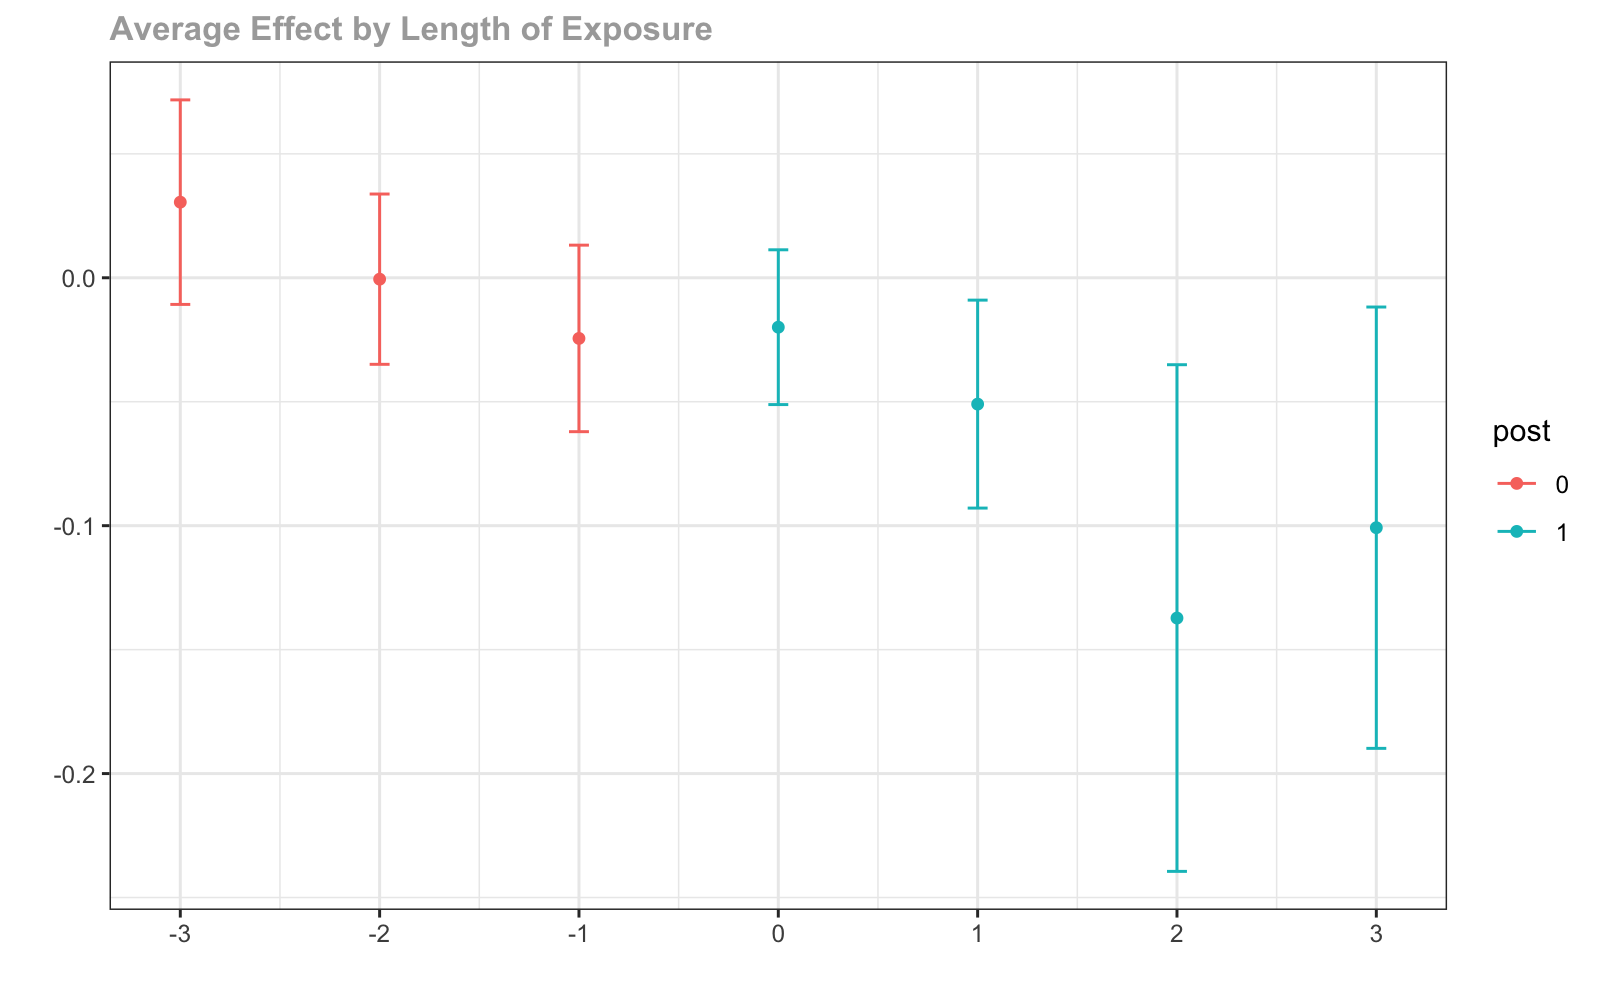
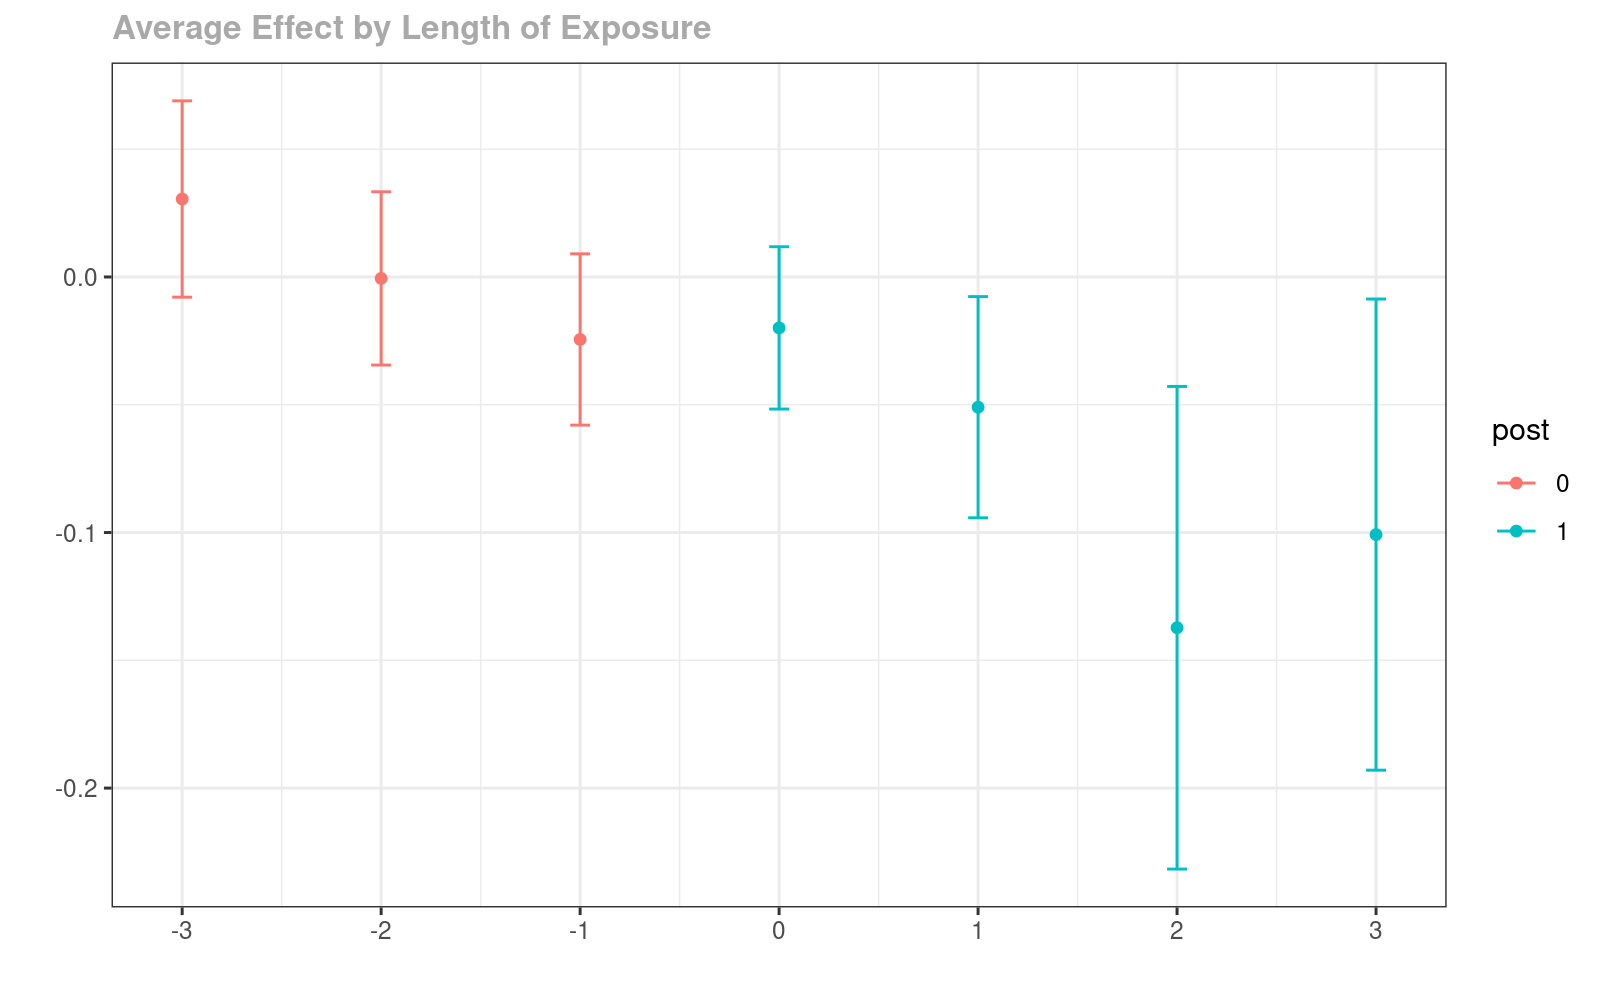
fixed urls

diff --git a/docs/index.html b/docs/index.html
@@ -104,7 +104,7 @@
 </ul>
 <p><strong>Higher level discussions of issues are available in</strong></p>
 <ul>
-<li><a href="articles/multi-period-did.html">Our approach to DiD with multiple time periods</a></li>
+<li><a href="https://bcallaway11.github.io/did/articles/multi-period-did.html">Our approach to DiD with multiple time periods</a></li>
 </ul>
 </div>
 <div id="installation" class="section level2">
@@ -123,7 +123,7 @@
 <a href="#a-short-example" class="anchor"></a>A short example</h2>
 <p>The following is a simplified example of the effect of states increasing their minimum wages on county-level teen employment rates which comes from <a href="https://arxiv.org/abs/1803.09015">Callaway and Sant’Anna (2020)</a>.</p>
 <ul>
-<li><a href="articles/did-basics.html">More detailed examples are also available</a></li>
+<li><a href="https://bcallaway11.github.io/did/articles/did-basics.html">More detailed examples are also available</a></li>
 </ul>
 <p>A subset of the data is available in the package and can be loaded by</p>
 <div class="sourceCode" id="cb3"><pre class="downlit sourceCode r">
@@ -158,22 +158,22 @@
 <span class="co">#&gt; </span>
 <span class="co">#&gt; Group-Time Average Treatment Effects:</span>
 <span class="co">#&gt;  Group Time ATT(g,t) Std. Error [95% Simult.  Conf. Band]  </span>
-<span class="co">#&gt;   2004 2004  -0.0105     0.0248       -0.0744      0.0534  </span>
-<span class="co">#&gt;   2004 2005  -0.0704     0.0338       -0.1573      0.0165  </span>
-<span class="co">#&gt;   2004 2006  -0.1373     0.0408       -0.2423     -0.0322 *</span>
-<span class="co">#&gt;   2004 2007  -0.1008     0.0359       -0.1933     -0.0083 *</span>
-<span class="co">#&gt;   2006 2004   0.0065     0.0246       -0.0568      0.0698  </span>
-<span class="co">#&gt;   2006 2005  -0.0028     0.0206       -0.0558      0.0503  </span>
-<span class="co">#&gt;   2006 2006  -0.0046     0.0183       -0.0518      0.0426  </span>
-<span class="co">#&gt;   2006 2007  -0.0412     0.0212       -0.0958      0.0134  </span>
-<span class="co">#&gt;   2007 2004   0.0305     0.0149       -0.0077      0.0687  </span>
-<span class="co">#&gt;   2007 2005  -0.0027     0.0176       -0.0481      0.0426  </span>
-<span class="co">#&gt;   2007 2006  -0.0311     0.0179       -0.0772      0.0150  </span>
-<span class="co">#&gt;   2007 2007  -0.0261     0.0170       -0.0698      0.0177  </span>
+<span class="co">#&gt;   2004 2004  -0.0105     0.0244       -0.0742      0.0532  </span>
+<span class="co">#&gt;   2004 2005  -0.0704     0.0338       -0.1586      0.0177  </span>
+<span class="co">#&gt;   2004 2006  -0.1373     0.0384       -0.2376     -0.0370 *</span>
+<span class="co">#&gt;   2004 2007  -0.1008     0.0355       -0.1934     -0.0083 *</span>
+<span class="co">#&gt;   2006 2004   0.0065     0.0252       -0.0593      0.0724  </span>
+<span class="co">#&gt;   2006 2005  -0.0028     0.0193       -0.0531      0.0476  </span>
+<span class="co">#&gt;   2006 2006  -0.0046     0.0179       -0.0512      0.0420  </span>
+<span class="co">#&gt;   2006 2007  -0.0412     0.0211       -0.0964      0.0139  </span>
+<span class="co">#&gt;   2007 2004   0.0305     0.0154       -0.0097      0.0707  </span>
+<span class="co">#&gt;   2007 2005  -0.0027     0.0163       -0.0453      0.0399  </span>
+<span class="co">#&gt;   2007 2006  -0.0311     0.0200       -0.0833      0.0211  </span>
+<span class="co">#&gt;   2007 2007  -0.0261     0.0174       -0.0715      0.0194  </span>
 <span class="co">#&gt; ---</span>
 <span class="co">#&gt; Signif. codes: `*' confidence band does not cover 0</span>
 <span class="co">#&gt; </span>
-<span class="co">#&gt; P-value for pre-test of parallel trends assumption:  0.19578</span>
+<span class="co">#&gt; P-value for pre-test of parallel trends assumption:  0.16812</span>
 <span class="co">#&gt; Control Group:  Never Treated,  Anticipation Periods:  0</span>
 <span class="co">#&gt; Estimation Method:  Outcome Regression</span></code></pre></div>
 <p>This provides estimates of group-time average treatment effects for all groups in all time periods. Group-time average treatment effects are identified when <code>t &gt;= g</code> (these are post-treatment time periods for each group), but <strong>summary</strong> reports them even in periods when <code>t &lt; g</code> – these can be used to pre-test for the parallel trends assumption. The <code>P-value for pre-test of parallel trends assumption</code> is for a Wald pre-test of the parallel trends assumption. Here the parallel trends assumption would not be rejected at conventional significance levels.</p>
@@ -199,18 +199,18 @@
 <span class="co">#&gt; </span>
 <span class="co">#&gt; Overall ATT:  </span>
 <span class="co">#&gt;      ATT Std. Error     [95%  Conf. Int.]  </span>
-<span class="co">#&gt;  -0.0772     0.0219   -0.1202     -0.0343 *</span>
+<span class="co">#&gt;  -0.0772     0.0205   -0.1174      -0.037 *</span>
 <span class="co">#&gt; </span>
 <span class="co">#&gt; </span>
 <span class="co">#&gt; Dynamic Effects:</span>
 <span class="co">#&gt;  event time     ATT Std. Error [95% Simult.  Conf. Band]  </span>
-<span class="co">#&gt;          -3  0.0305     0.0161       -0.0107      0.0718  </span>
-<span class="co">#&gt;          -2 -0.0006     0.0134       -0.0349      0.0338  </span>
-<span class="co">#&gt;          -1 -0.0245     0.0146       -0.0621      0.0132  </span>
-<span class="co">#&gt;           0 -0.0199     0.0122       -0.0512      0.0113  </span>
-<span class="co">#&gt;           1 -0.0510     0.0163       -0.0929     -0.0090 *</span>
-<span class="co">#&gt;           2 -0.1373     0.0398       -0.2394     -0.0351 *</span>
-<span class="co">#&gt;           3 -0.1008     0.0346       -0.1898     -0.0118 *</span>
+<span class="co">#&gt;          -3  0.0305     0.0157       -0.0079      0.0689  </span>
+<span class="co">#&gt;          -2 -0.0006     0.0138       -0.0345      0.0334  </span>
+<span class="co">#&gt;          -1 -0.0245     0.0137       -0.0580      0.0091  </span>
+<span class="co">#&gt;           0 -0.0199     0.0130       -0.0517      0.0118  </span>
+<span class="co">#&gt;           1 -0.0510     0.0177       -0.0942     -0.0077 *</span>
+<span class="co">#&gt;           2 -0.1373     0.0385       -0.2317     -0.0428 *</span>
+<span class="co">#&gt;           3 -0.1008     0.0376       -0.1930     -0.0086 *</span>
 <span class="co">#&gt; ---</span>
 <span class="co">#&gt; Signif. codes: `*' confidence band does not cover 0</span>
 <span class="co">#&gt; </span>
@@ -238,14 +238,14 @@
 <span class="co">#&gt; </span>
 <span class="co">#&gt; Overall ATT:  </span>
 <span class="co">#&gt;     ATT Std. Error     [95%  Conf. Int.]  </span>
-<span class="co">#&gt;  -0.031     0.0125   -0.0556     -0.0064 *</span>
+<span class="co">#&gt;  -0.031     0.0119   -0.0543     -0.0078 *</span>
 <span class="co">#&gt; </span>
 <span class="co">#&gt; </span>
 <span class="co">#&gt; Group Effects:</span>
 <span class="co">#&gt;  group     ATT Std. Error [95% Simult.  Conf. Band]  </span>
-<span class="co">#&gt;   2004 -0.0797     0.0298       -0.1464     -0.0131 *</span>
-<span class="co">#&gt;   2006 -0.0229     0.0165       -0.0599      0.0141  </span>
-<span class="co">#&gt;   2007 -0.0261     0.0160       -0.0620      0.0098  </span>
+<span class="co">#&gt;   2004 -0.0797     0.0280       -0.1442     -0.0153 *</span>
+<span class="co">#&gt;   2006 -0.0229     0.0161       -0.0599      0.0141  </span>
+<span class="co">#&gt;   2007 -0.0261     0.0180       -0.0676      0.0154  </span>
 <span class="co">#&gt; ---</span>
 <span class="co">#&gt; Signif. codes: `*' confidence band does not cover 0</span>
 <span class="co">#&gt; </span>
@@ -258,10 +258,10 @@
 <a href="#additional-resources" class="anchor"></a>Additional Resources</h2>
 <p>We have provided several more vignettes that may be helpful for using the <strong>did</strong> package</p>
 <ul>
-<li><p><a href="articles/did-basics.html">Getting Started with the did Package</a></p></li>
-<li><p><a href="articles/multi-period-did.html">Introduction to DiD with Multiple Time Periods</a></p></li>
-<li><p><a href="articles/pre-testing.html">Pre-Testing in a DiD Setup using the did Package</a></p></li>
-<li><p><a href="articles/extensions.html">Writing Extensions to the did Package</a></p></li>
+<li><p><a href="https://bcallaway11.github.io/did/articles/did-basics.html">Getting Started with the did Package</a></p></li>
+<li><p><a href="https://bcallaway11.github.io/did/articles/multi-period-did.html">Introduction to DiD with Multiple Time Periods</a></p></li>
+<li><p><a href="https://bcallaway11.github.io/did/articles/pre-testing.html">Pre-Testing in a DiD Setup using the did Package</a></p></li>
+<li><p><a href="https://bcallaway11.github.io/did/articles/extensions.html">Writing Extensions to the did Package</a></p></li>
 </ul>
 </div>
 </div>

diff --git a/docs/articles/did-basics.html b/docs/articles/did-basics.html
@@ -78,7 +78,7 @@
       <h1 data-toc-skip>Getting Started with the did Package</h1>
                         <h4 class="author">Brantly Callaway and Pedro H.C. Sant’Anna</h4>
             
-            <h4 class="date">2020-12-08</h4>
+            <h4 class="date">2020-12-09</h4>
       
       <small class="dont-index">Source: <a href="https://github.com/bcallaway11/did/blob/master/vignettes/did-basics.Rmd"><code>vignettes/did-basics.Rmd</code></a></small>
       <div class="hidden name"><code>did-basics.Rmd</code></div>
@@ -97,7 +97,7 @@
 <li><p>Treatment effect estimates coming from the <strong>did</strong> package do not suffer from any of the drawbacks associated with two-way fixed effects regressions or event study regressions when there are multiple periods / variation in treatment timing</p></li>
 <li><p>The <strong>did</strong> package can deliver disaggregated <em>group-time average treatment effects</em> as well as event-study type estimates (treatment effects parameters corresponding to different lengths of exposure to the treatment) and overall treatment effect estimates.</p></li>
 </ul>
-<p>We use some notation in this vignette that is fully explained in our <a href="multi-periods.html">Introduction to DiD with Multiple Time Periods</a> vignette.</p>
+<p>We use some notation in this vignette that is fully explained in our <a href="multi-period-did.html">Introduction to DiD with Multiple Time Periods</a> vignette.</p>
 </div>
 <div id="examples-with-simulated-data" class="section level1">
 <h1 class="hasAnchor">
@@ -206,7 +206,7 @@
 <span class="co">#&gt; P-value for pre-test of parallel trends assumption:  0.79243</span>
 <span class="co">#&gt; Control Group:  Never Treated,  Anticipation Periods:  0</span>
 <span class="co">#&gt; Estimation Method:  Doubly Robust</span></code></pre></div>
-<p>The summary of <code>example_attgt</code> provides estimates of the group-time average treatment effects in the column labeled <code>att</code>, and the corresponding bootstrapped-based standard errors are given in the column <code>se</code>. The corresponding groups and times are given in the columns <code>group</code> and <code>time</code>. Under the no-anticipation and parallel trends assumptions, group-time average treatment effects are identified in periods when <span class="math inline">\(t \geq g\)</span> (i.e., post-treatment periods for each group). The table also reports pseudo group-time average treatment effects when <span class="math inline">\(t &lt; g\)</span> (i.e., pre-treatment periods for group <span class="math inline">\(g\)</span>). These can be used as a pre-test for the parallel trends assumption (as long as we assume that the no-anticipation assumption indeed holds). In addition, the results of a Wald pre-test of the parallel trends assumption is reported in the summary of the results. <a href="pre-testing">A much more detailed discussion of using the <strong>did</strong> package for pre-testing is available here</a>.</p>
+<p>The summary of <code>example_attgt</code> provides estimates of the group-time average treatment effects in the column labeled <code>att</code>, and the corresponding bootstrapped-based standard errors are given in the column <code>se</code>. The corresponding groups and times are given in the columns <code>group</code> and <code>time</code>. Under the no-anticipation and parallel trends assumptions, group-time average treatment effects are identified in periods when <span class="math inline">\(t \geq g\)</span> (i.e., post-treatment periods for each group). The table also reports pseudo group-time average treatment effects when <span class="math inline">\(t &lt; g\)</span> (i.e., pre-treatment periods for group <span class="math inline">\(g\)</span>). These can be used as a pre-test for the parallel trends assumption (as long as we assume that the no-anticipation assumption indeed holds). In addition, the results of a Wald pre-test of the parallel trends assumption is reported in the summary of the results. <a href="pre-testing.html">A much more detailed discussion of using the <strong>did</strong> package for pre-testing is available here</a>.</p>
 <p>Next, we’ll demonstrate how to plot group-time average treatment effects. To plot these, use the <code>ggdid</code> function which builds off the <code>ggplot2</code> package.</p>
 <div class="sourceCode" id="cb3"><pre class="downlit sourceCode r">
 <code class="sourceCode R"><span class="co"># plot the results</span>

diff --git a/docs/articles/multi-period-did.html b/docs/articles/multi-period-did.html
@@ -78,7 +78,7 @@
       <h1 data-toc-skip>Introduction to DiD with Multiple Time Periods</h1>
                         <h4 class="author">Brantly Callaway and Pedro H.C. Sant’Anna</h4>
             
-            <h4 class="date">2020-12-08</h4>
+            <h4 class="date">2020-12-09</h4>
       
       <small class="dont-index">Source: <a href="https://github.com/bcallaway11/did/blob/master/vignettes/multi-period-did.Rmd"><code>vignettes/multi-period-did.Rmd</code></a></small>
       <div class="hidden name"><code>multi-period-did.Rmd</code></div>
@@ -238,7 +238,7 @@ ATT(g,t) = E[ Y_t - Y_{g-1}| G=g] - E[ Y_t - Y_{g-1}| D_t=0, G\not=g].
 <div id="conclusion" class="section level2">
 <h2 class="hasAnchor">
 <a href="#conclusion" class="anchor"></a>Conclusion</h2>
-<p>This vignette has covered basic background issues on DiD with multiple periods. <a href="https://arxiv.org/abs/1803.09015">Callaway and Sant’Anna (2020)</a> discusses many extensions and these are all provided in the <strong>did</strong> package as well. <a href="articles/index.html">See our User Guides for more details.</a></p>
+<p>This vignette has covered basic background issues on DiD with multiple periods. <a href="https://arxiv.org/abs/1803.09015">Callaway and Sant’Anna (2020)</a> discusses many extensions and these are all provided in the <strong>did</strong> package as well. <a href="index.html">See our User Guides for more details.</a></p>
 </div>
 <div id="references" class="section level2">
 <h2 class="hasAnchor">

diff --git a/docs/articles/pre-testing.html b/docs/articles/pre-testing.html
@@ -78,7 +78,7 @@
       <h1 data-toc-skip>Pre-Testing in a DiD Setup using the did Package</h1>
                         <h4 class="author">Brantly Callaway and Pedro H.C. Sant'Anna</h4>
             
-            <h4 class="date">2020-12-08</h4>
+            <h4 class="date">2020-12-09</h4>
       
       <small class="dont-index">Source: <a href="https://github.com/bcallaway11/did/blob/master/vignettes/pre-testing.Rmd"><code>vignettes/pre-testing.Rmd</code></a></small>
       <div class="hidden name"><code>pre-testing.Rmd</code></div>

diff --git a/docs/articles/extensions.html b/docs/articles/extensions.html
@@ -78,7 +78,7 @@
       <h1 data-toc-skip>Writing Extensions to the did Package</h1>
                         <h4 class="author">Brantly Callaway and Pedro H.C. Sant’Anna</h4>
             
-            <h4 class="date">2020-12-08</h4>
+            <h4 class="date">2020-12-09</h4>
       
       <small class="dont-index">Source: <a href="https://github.com/bcallaway11/did/blob/master/vignettes/extensions.Rmd"><code>vignettes/extensions.Rmd</code></a></small>
       <div class="hidden name"><code>extensions.Rmd</code></div>

diff --git a/README.md b/README.md
@@ -61,7 +61,7 @@ There has been some recent work on DiD with multiple time periods. The
 **Higher level discussions of issues are available in**
 
   - [Our approach to DiD with multiple time
-    periods](articles/multi-period-did.html)
+    periods](https://bcallaway11.github.io/did/articles/multi-period-did.html)
 
 ## Installation
 
@@ -85,7 +85,7 @@ their minimum wages on county-level teen employment rates which comes
 from [Callaway and Sant’Anna (2020)](https://arxiv.org/abs/1803.09015).
 
   - [More detailed examples are also
-    available](articles/did-basics.html)
+    available](https://bcallaway11.github.io/did/articles/did-basics.html)
 
 A subset of the data is available in the package and can be loaded by
 
@@ -141,22 +141,22 @@ summary(out)
 #> 
 #> Group-Time Average Treatment Effects:
 #>  Group Time ATT(g,t) Std. Error [95% Simult.  Conf. Band]  
-#>   2004 2004  -0.0105     0.0248       -0.0744      0.0534  
-#>   2004 2005  -0.0704     0.0338       -0.1573      0.0165  
-#>   2004 2006  -0.1373     0.0408       -0.2423     -0.0322 *
-#>   2004 2007  -0.1008     0.0359       -0.1933     -0.0083 *
-#>   2006 2004   0.0065     0.0246       -0.0568      0.0698  
-#>   2006 2005  -0.0028     0.0206       -0.0558      0.0503  
-#>   2006 2006  -0.0046     0.0183       -0.0518      0.0426  
-#>   2006 2007  -0.0412     0.0212       -0.0958      0.0134  
-#>   2007 2004   0.0305     0.0149       -0.0077      0.0687  
-#>   2007 2005  -0.0027     0.0176       -0.0481      0.0426  
-#>   2007 2006  -0.0311     0.0179       -0.0772      0.0150  
-#>   2007 2007  -0.0261     0.0170       -0.0698      0.0177  
+#>   2004 2004  -0.0105     0.0244       -0.0742      0.0532  
+#>   2004 2005  -0.0704     0.0338       -0.1586      0.0177  
+#>   2004 2006  -0.1373     0.0384       -0.2376     -0.0370 *
+#>   2004 2007  -0.1008     0.0355       -0.1934     -0.0083 *
+#>   2006 2004   0.0065     0.0252       -0.0593      0.0724  
+#>   2006 2005  -0.0028     0.0193       -0.0531      0.0476  
+#>   2006 2006  -0.0046     0.0179       -0.0512      0.0420  
+#>   2006 2007  -0.0412     0.0211       -0.0964      0.0139  
+#>   2007 2004   0.0305     0.0154       -0.0097      0.0707  
+#>   2007 2005  -0.0027     0.0163       -0.0453      0.0399  
+#>   2007 2006  -0.0311     0.0200       -0.0833      0.0211  
+#>   2007 2007  -0.0261     0.0174       -0.0715      0.0194  
 #> ---
 #> Signif. codes: `*' confidence band does not cover 0
 #> 
-#> P-value for pre-test of parallel trends assumption:  0.19578
+#> P-value for pre-test of parallel trends assumption:  0.16812
 #> Control Group:  Never Treated,  Anticipation Periods:  0
 #> Estimation Method:  Outcome Regression
 ```
@@ -217,18 +217,18 @@ summary(es)
 #> 
 #> Overall ATT:  
 #>      ATT Std. Error     [95%  Conf. Int.]  
-#>  -0.0772     0.0219   -0.1202     -0.0343 *
+#>  -0.0772     0.0205   -0.1174      -0.037 *
 #> 
 #> 
 #> Dynamic Effects:
 #>  event time     ATT Std. Error [95% Simult.  Conf. Band]  
-#>          -3  0.0305     0.0161       -0.0107      0.0718  
-#>          -2 -0.0006     0.0134       -0.0349      0.0338  
-#>          -1 -0.0245     0.0146       -0.0621      0.0132  
-#>           0 -0.0199     0.0122       -0.0512      0.0113  
-#>           1 -0.0510     0.0163       -0.0929     -0.0090 *
-#>           2 -0.1373     0.0398       -0.2394     -0.0351 *
-#>           3 -0.1008     0.0346       -0.1898     -0.0118 *
+#>          -3  0.0305     0.0157       -0.0079      0.0689  
+#>          -2 -0.0006     0.0138       -0.0345      0.0334  
+#>          -1 -0.0245     0.0137       -0.0580      0.0091  
+#>           0 -0.0199     0.0130       -0.0517      0.0118  
+#>           1 -0.0510     0.0177       -0.0942     -0.0077 *
+#>           2 -0.1373     0.0385       -0.2317     -0.0428 *
+#>           3 -0.1008     0.0376       -0.1930     -0.0086 *
 #> ---
 #> Signif. codes: `*' confidence band does not cover 0
 #> 
@@ -282,14 +282,14 @@ summary(group_effects)
 #> 
 #> Overall ATT:  
 #>     ATT Std. Error     [95%  Conf. Int.]  
-#>  -0.031     0.0125   -0.0556     -0.0064 *
+#>  -0.031     0.0119   -0.0543     -0.0078 *
 #> 
 #> 
 #> Group Effects:
 #>  group     ATT Std. Error [95% Simult.  Conf. Band]  
-#>   2004 -0.0797     0.0298       -0.1464     -0.0131 *
-#>   2006 -0.0229     0.0165       -0.0599      0.0141  
-#>   2007 -0.0261     0.0160       -0.0620      0.0098  
+#>   2004 -0.0797     0.0280       -0.1442     -0.0153 *
+#>   2006 -0.0229     0.0161       -0.0599      0.0141  
+#>   2007 -0.0261     0.0180       -0.0676      0.0154  
 #> ---
 #> Signif. codes: `*' confidence band does not cover 0
 #> 
@@ -306,12 +306,14 @@ estimate that increasing the minimum wage decreased teen employment by
 We have provided several more vignettes that may be helpful for using
 the **did** package
 
-  - [Getting Started with the did Package](articles/did-basics.html)
+  - [Getting Started with the did
+    Package](https://bcallaway11.github.io/did/articles/did-basics.html)
 
   - [Introduction to DiD with Multiple Time
-    Periods](articles/multi-period-did.html)
+    Periods](https://bcallaway11.github.io/did/articles/multi-period-did.html)
 
   - [Pre-Testing in a DiD Setup using the did
-    Package](articles/pre-testing.html)
+    Package](https://bcallaway11.github.io/did/articles/pre-testing.html)
 
-  - [Writing Extensions to the did Package](articles/extensions.html)
+  - [Writing Extensions to the did
+    Package](https://bcallaway11.github.io/did/articles/extensions.html)
